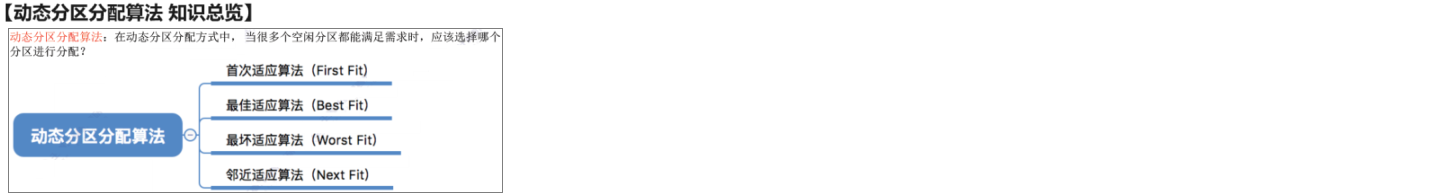
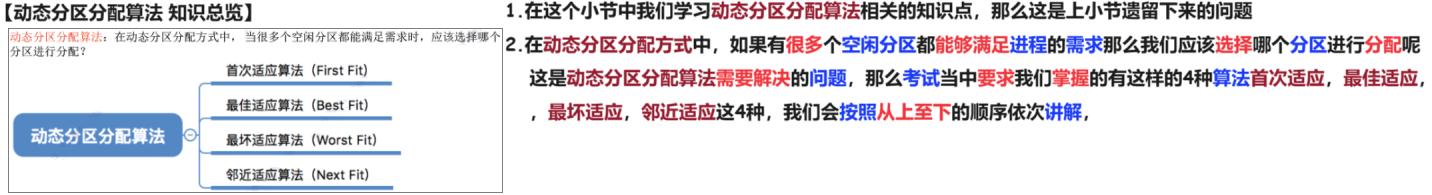
240426

diff --git a/01 初试/01 OS/02 24 25 王道基础/03 内存管理/06 动态分区分配算法 240426/02 Doc.md b/01 初试/01 OS/02 24 25 王道基础/03 内存管理/06 动态分区分配算法 240426/02 Doc.md
@@ -4,3 +4,9 @@
 
 # 01 动态分区分配算法 知识总览
 
+<img src="https://cvp.oss-cn-shanghai.aliyuncs.com/picgo/202404261340582.png" alt="image-20240426134018306" style="zoom: 50%;" />
+
+
+
+# 02 首次适应算法
+

diff --git a/01 初试/01 OS/02 24 25 王道基础/03 内存管理/05 连续分配管理方式 240426/02 Doc.md b/01 初试/01 OS/02 24 25 王道基础/03 内存管理/05 连续分配管理方式 240426/02 Doc.md
@@ -1,0 +1,6 @@
+# 连续分配管理方式
+
+
+
+# 01 连续分配管理方式 知识总览
+
